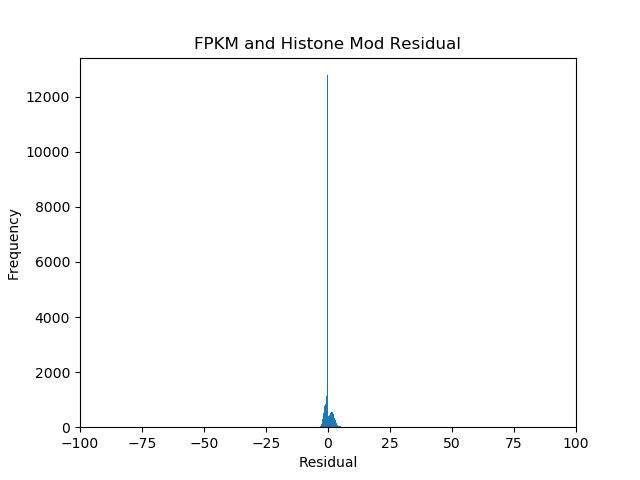
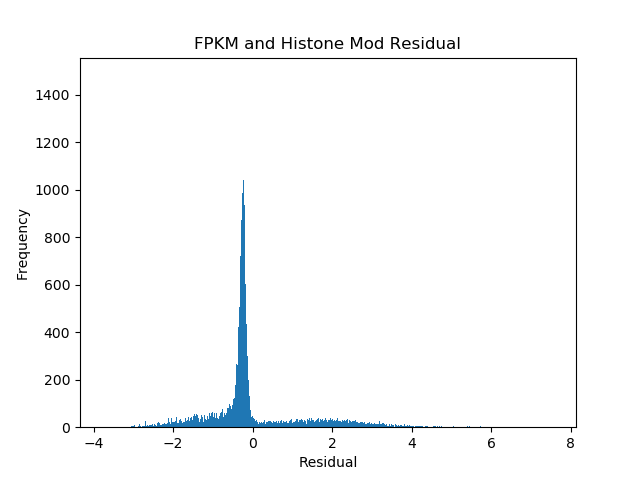
Updated Log data

diff --git a/day5-lunch/01-residuals-log.py b/day5-lunch/01-residuals-log.py
@@ -41,8 +41,8 @@ ols_results = model.fit()
 
 #Plotting in Histogram the linear regression
 fig, ax = plt.subplots()
-ax.hist(ols_results.resid, bins=1000, range=(-100, 100))
-ax.set_xlim(-100, 100)
+ax.hist(ols_results.resid, bins=1000)
+#ax.set_xlim(-100, 100)
 plt.xlabel("Residual")
 plt.ylabel("Frequency")
 plt.title("FPKM and Histone Mod Residual")
